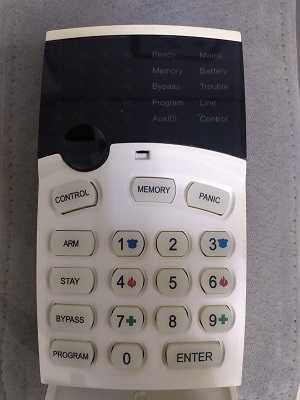
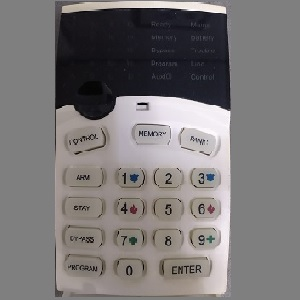
05/06/21

diff --git a/tecnica.html b/tecnica.html
@@ -21,15 +21,15 @@
 
         <div class=principal>
             <div class="paradox">
-                <a href="pag2.html">
+                <a href="paradox_728.html">
                 <h2>Teclado 636 Alarme Paradox 728/738/748</h2>
-                <img src="imagens/636.jpg" alt="Teclado paradox" />
+                <img src="imagens/636a.png" alt="Teclado paradox" />
                 </a>
             </div>
                             
             
             <div class="runner">
-                <a href="pag3.html">
+                <a href="runner.html">
                 <h2>Teclado Runner</h2>
                 <img src="imagens/tec_runner.jpg" alt="teclado runner"/>
                 </a>
@@ -37,9 +37,24 @@
 
             
             <div class="intelbras">
-                <a href="pag4.html">
+                <a href="intelbras.html">
                 <h2>Teclado intelbras</h2>
-                <img src="imagens/teclado-alarme-intelbras.jpg" alt="teclado intelbras"/>
+                <img src="imagens/teclado_intelbras.png" alt="teclado intelbras"/>
+                </a>
+            </div>
+            
+
+            <div class="viaweb558">
+                <a href="viaweb.html">
+                <h2>Teclado 558 ViaWeb</h2>
+                <img src="imagens/558_viaweb.jpg" alt="teclado 558viaweb"/>
+                </a>
+            </div>
+
+            <div class="E55">
+                <a href="E55.html">
+                <h2>Teclado E55 Paradox</h2>
+                <img src="imagens/E55.png" alt="teclado E55"/>
                 </a>
             </div>
 
@@ -49,6 +64,16 @@
                 <img src="imagens/vista.png" alt="teclado intelbras"/>
                 </a>
             </div>
+
+            <div class="vista_48">
+                <a href="pag5.html">
+                <h2>Teclado Vista48</h2>
+                <img src="imagens/vista.png" alt="teclado intelbras"/>
+                </a>
+            </div>
+
+
+
 
 
         </div>
@@ -62,7 +87,10 @@
 
         </article>
         <footer>
+            <div class="rodape">
+                <h3>Produzido por<br> "MARCELO CASTANHO"</h3>
 
+            </div><!--rodape-->
         </footer>
         <div class="clear"></div>
         

diff --git a/css/style.css b/css/style.css
@@ -65,17 +65,17 @@ header{
 }
 
 .runner{
-    display: inline-block;
     width:300px;
     height:300px;
     float:right;
+    margin-top:20px;
     margin-right: 10%;
     margin-left: 100px;
     margin-bottom: 20px;
 }
 
 .runner img{
-    
+    width:100%;
     height:100%;
     
 
@@ -86,7 +86,6 @@ header{
 }
 
 .intelbras{
-    display: inline-block;
     width:300px;
     height:300px;
     float:right;
@@ -102,7 +101,7 @@ header{
 .vista_48{
     margin-left: 10%;
     width:300px;
-    margin-top: 20px;
+    margin-top: 40px;
     margin-bottom: 20px;
 }
 
@@ -111,12 +110,13 @@ header{
 }
 
 .viaweb558{
-    display: inline-block;
     width:300px;
     height:300px;
     float:right;
     margin-top:20px;
     margin-bottom: 20px;
+    margin-right: 10%;
+    margin-left: 50px;
 
 }
 

diff --git a/tatico.html b/tatico.html
@@ -24,7 +24,7 @@
             <div class="paradox">
                 <a href="paradox_728.html">
                 <h2>Teclado 636 Alarme Paradox 728/738/748</h2>
-                <img src="imagens/636.jpg" alt="Teclado paradox" />
+                <img src="imagens/636a.png" alt="Teclado paradox" />
                 </a>
             </div>
                             
@@ -66,10 +66,10 @@
                 </a>
             </div>
 
-            <div class="vista_48">
+            <div class="EVO-PARADOX">
                 <a href="pag5.html">
                 <h2>Teclado Vista48</h2>
-                <img src="imagens/vista.png" alt="teclado intelbras"/>
+                <img src="imagens/evo_paradox.jpg" alt="teclado EVO-PARADOX"/>
                 </a>
             </div>
 

diff --git a/vendas.html b/vendas.html
@@ -13,7 +13,7 @@
         <header>
             
             <div class="topo">
-                <h1>Manuais de Programação</h1>
+                <h1>Suporte ao Comercial </h1>
                 <a href="index.html" ><button name="button">Voltar</button></a>
             </div>
             
@@ -63,7 +63,10 @@
 
         </article>
         <footer>
+            <div class="rodape">
+                <h3>Produzido por<br> "MARCELO CASTANHO"</h3>
 
+            </div><!--rodape-->
         </footer>
         <div class="clear"></div>
         
